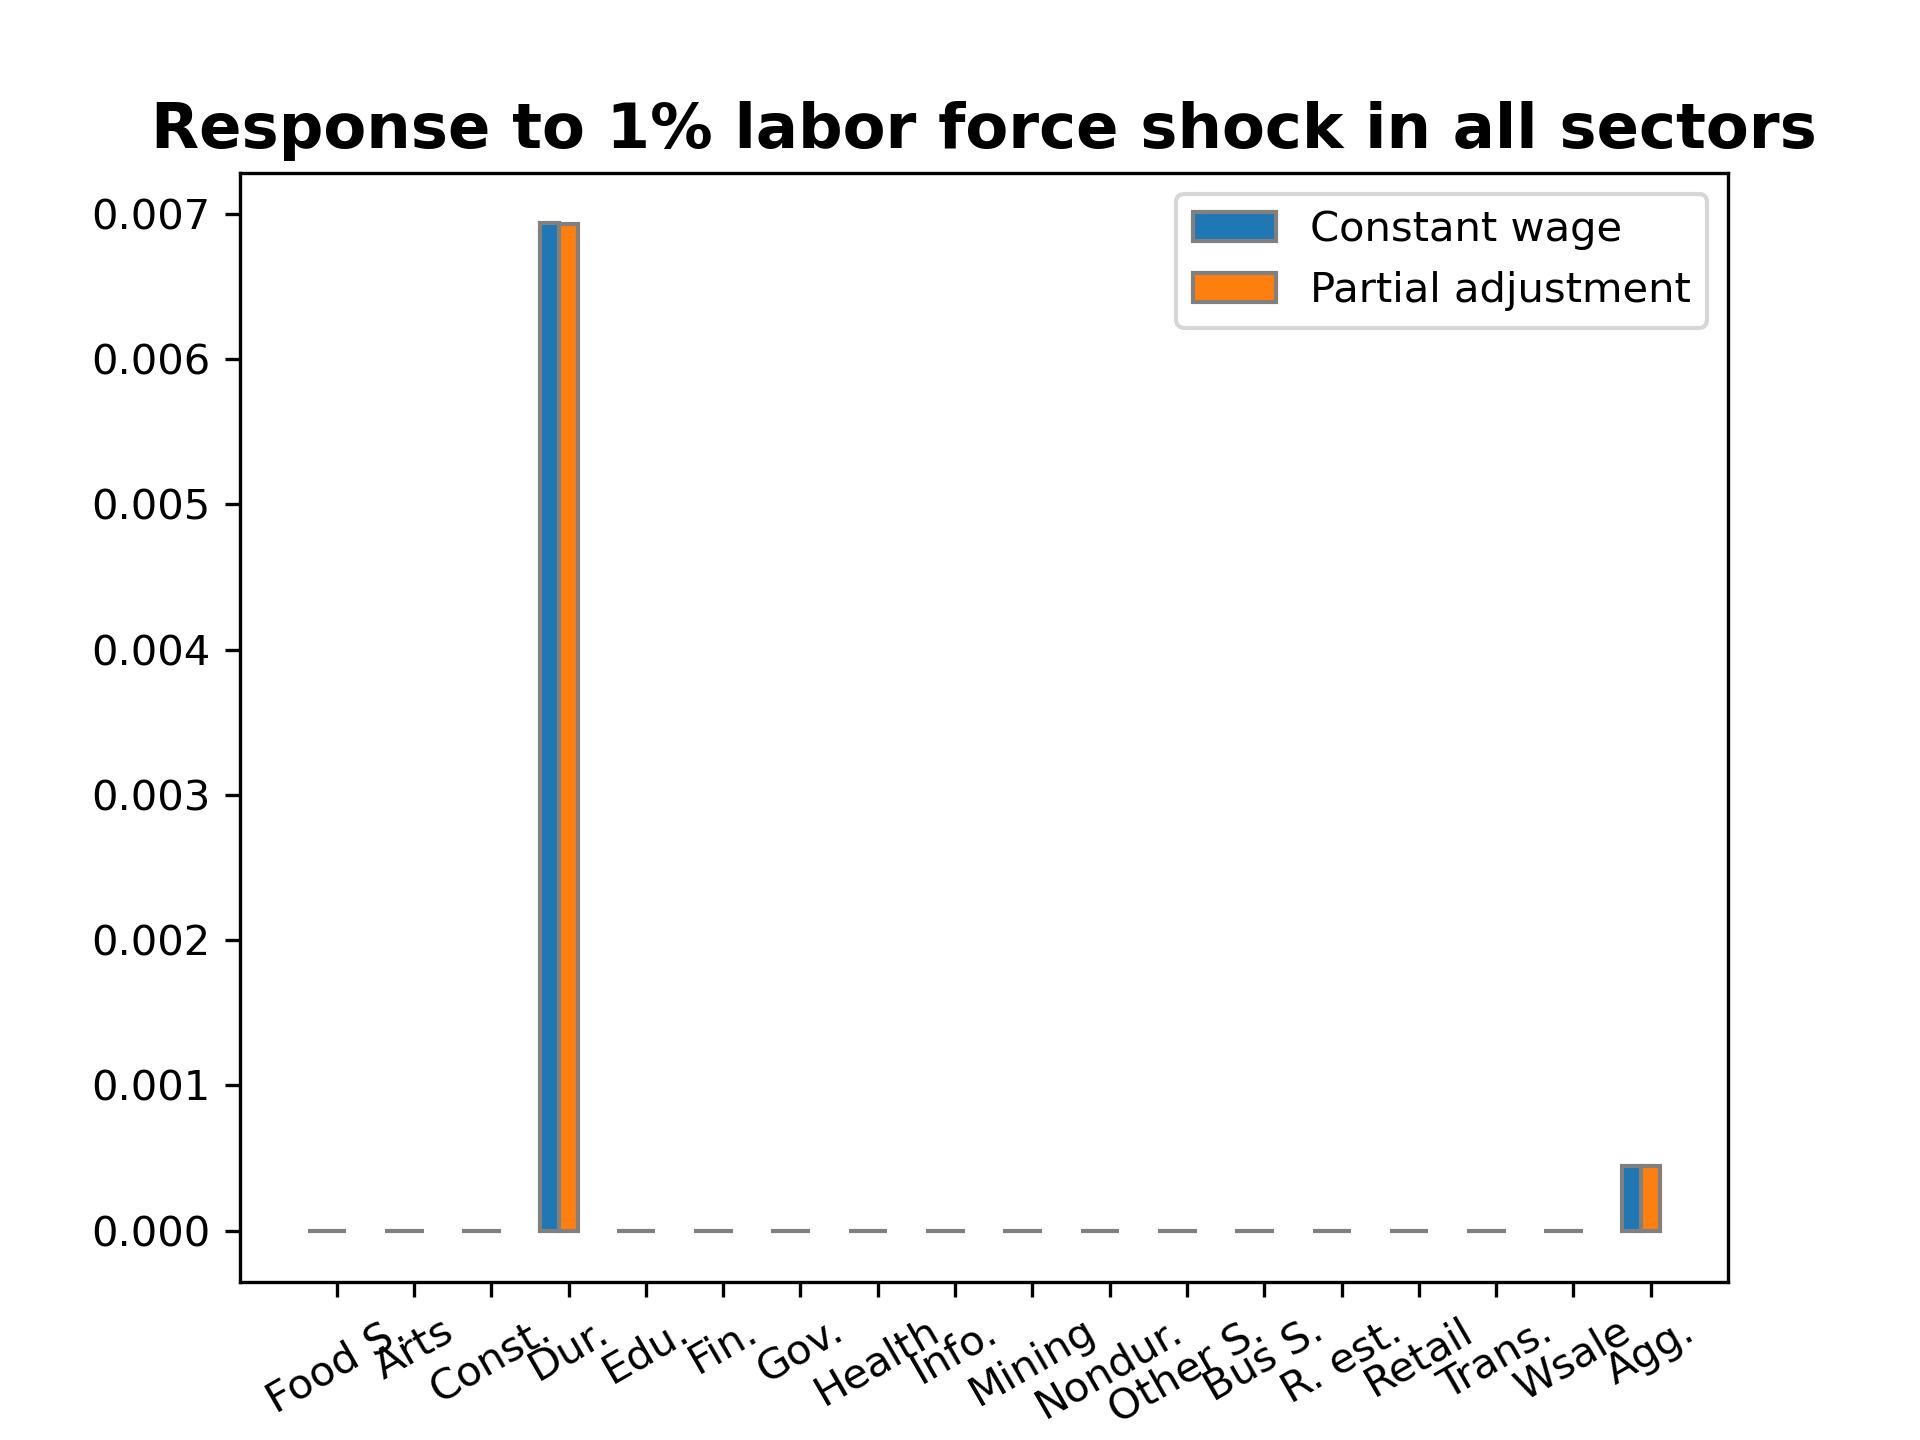
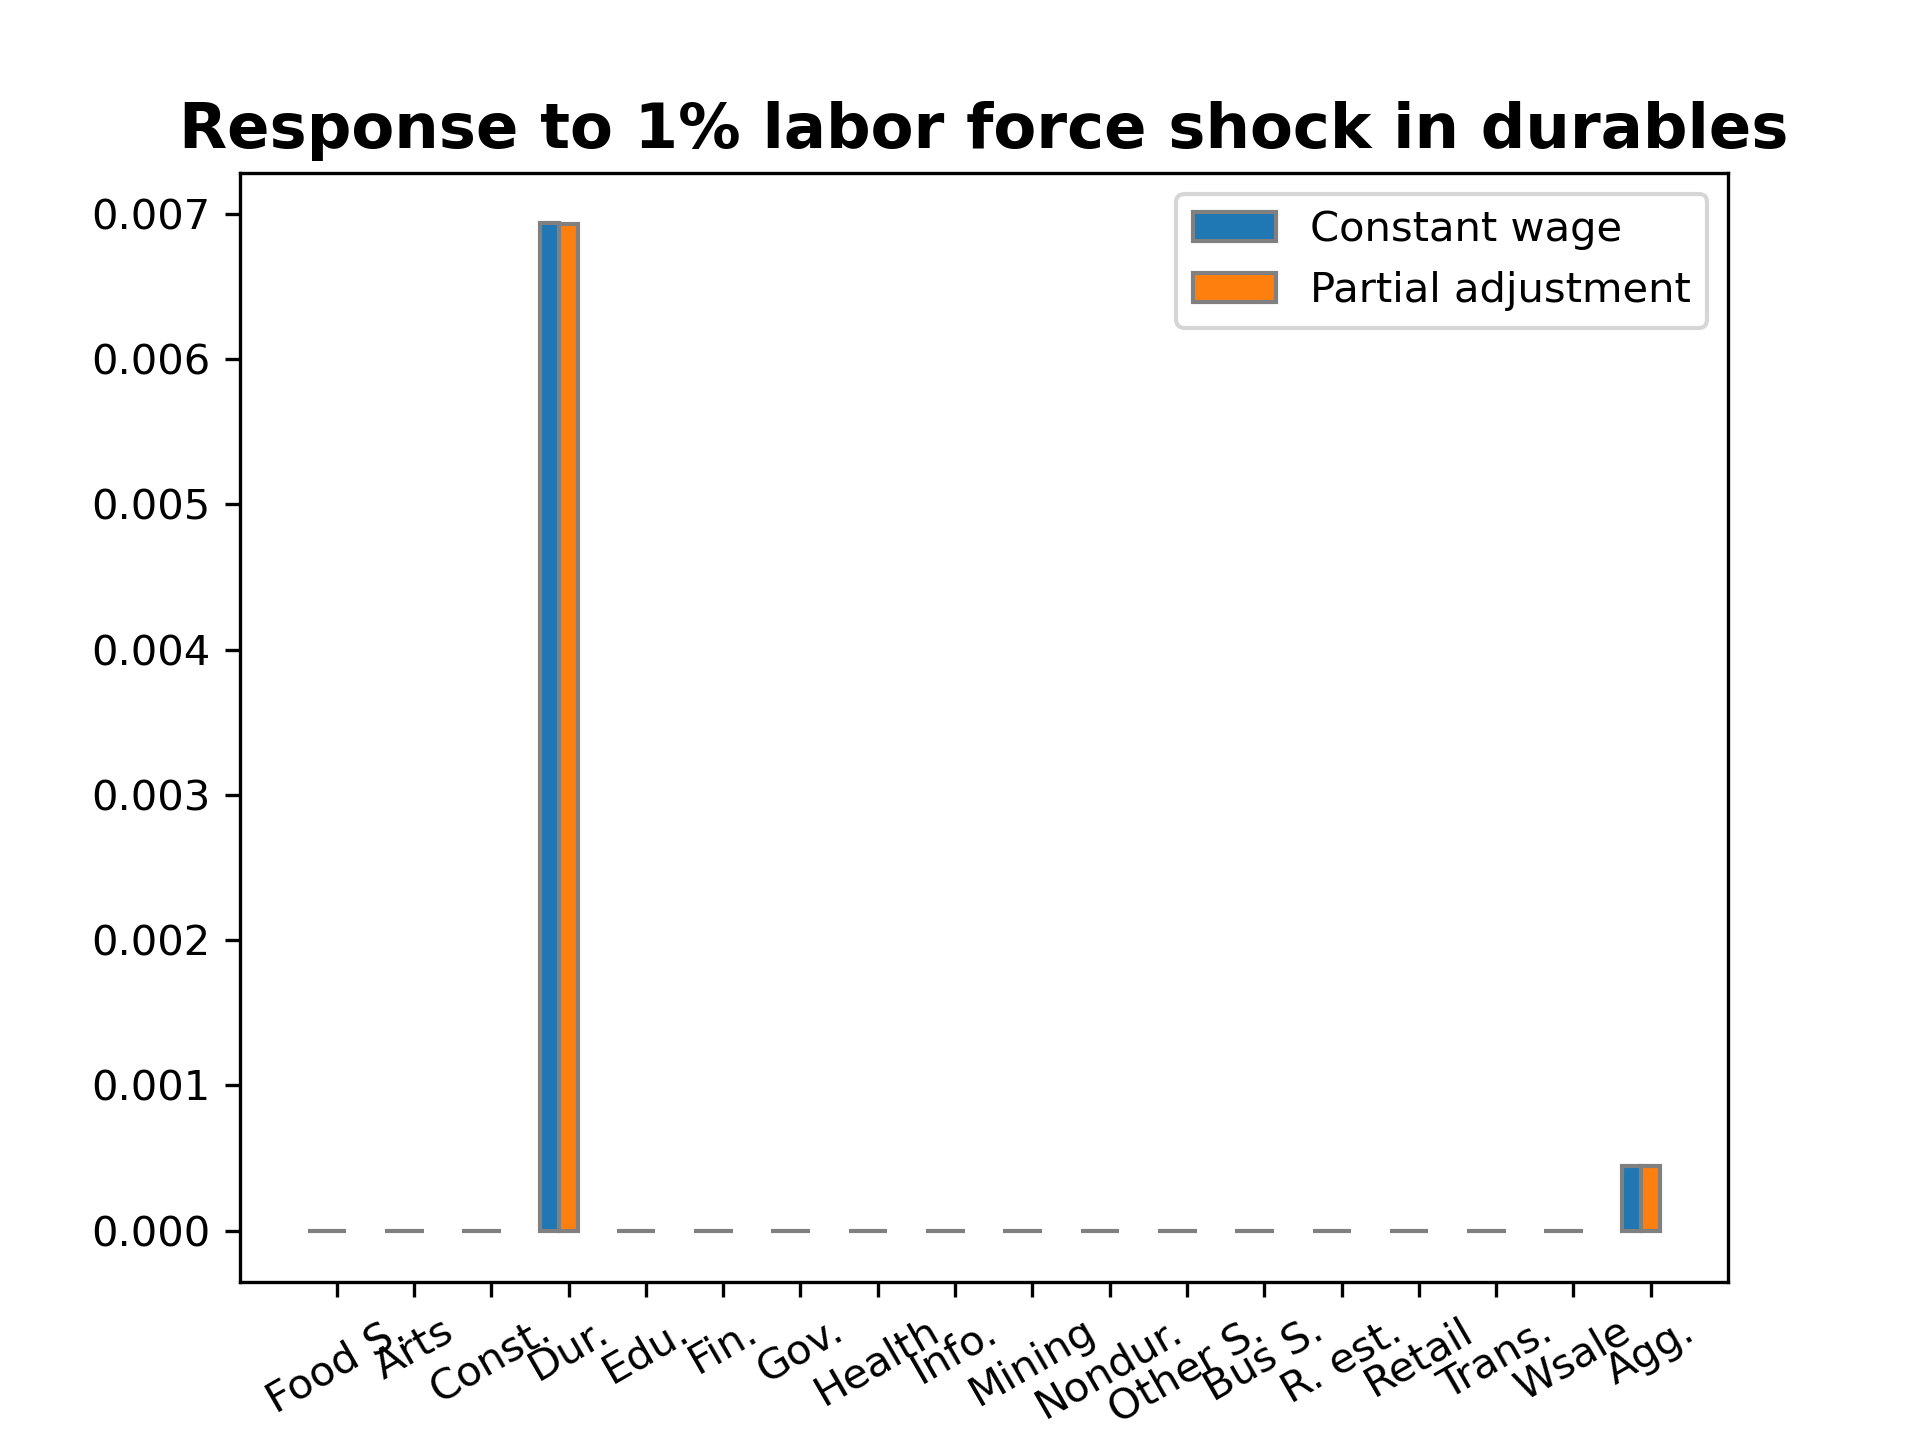
updated labels

Changed region(s): [[0.0625, 0.0625, 0.9375, 0.125]]

diff --git a/new_code/main.py b/new_code/main.py
@@ -119,6 +119,7 @@ if __name__ == "__main__":
     tech_shock_eyeA = cobb_douglas_eyeA.shocks(dlogA_all, dlogH_null, H, L, U) 
     H_shock_eyeA = cobb_douglas_eyeA.shocks(dlogA_null, dlogH_all, H, L, U)
 
+    '''
     #### Figures ####
     plot_sector(tech_shock_real.dlogy, tech_shock_nominal.dlogy, var_name='dlogy', model_name='partially rigid wages', sectors=range(Nsectors)) #sectors)
     plot_sector(tech_shock_real.dUrate, tech_shock_nominal.dUrate, var_name='change in u', model_name='partially rigid wages', sectors=range(Nsectors)) #sectors)
@@ -128,6 +129,7 @@ if __name__ == "__main__":
     plot_sector(tech_shock_real_sec.dlogy, tech_shock_nominal_sec.dlogy, var_name='dlogy', model_name='partially rigid wages', sectors=range(Nsectors)) #sectors)
     plot_sector(tech_shock_real_sec.dUrate, tech_shock_nominal_sec.dUrate, var_name='change in u', model_name='partially rigid wages', sectors=range(Nsectors)) #sectors)
     plot_sector(tech_shock_real_sec.dlogtheta, tech_shock_nominal_sec.dlogtheta, var_name=r'd$\log\theta$', model_name='partially rigid wages', sectors=range(Nsectors)) #sectors)
+    '''
 
 
     #Impact tech shocks, agg included
@@ -153,7 +155,7 @@ if __name__ == "__main__":
     networks = [tech_shock_nominal_sec, tech_shock_sectoral_sec]
     varname = 'dlogy'
     aggname = 'dlogY'
-    title   = 'Response to 1% productivity shock durables' 
+    title   = 'Response to 1% productivity shock in durables' 
     xlab    = ''
     ylab    = 'Log change in real output'
     labels  = ['Constant wage', 'Partial adjustment']
@@ -190,7 +192,7 @@ if __name__ == "__main__":
     networks = [H_shock_nominal_sec, H_shock_sectoral_sec]
     varname = 'dlogy'
     aggname = 'dlogY'
-    title   = 'Response to 1% labor force shock in all sectors' 
+    title   = 'Response to 1% labor force shock in durables' 
     xlab    = ''
     ylab    = 'Log change in real output'
     labels  = ['Constant wage', 'Partial adjustment']
